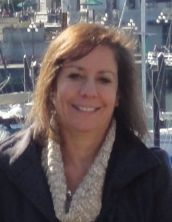
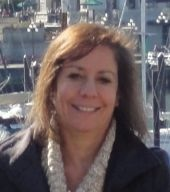
restyle photos and update insurance providers

diff --git a/_includes/header.html b/_includes/header.html
@@ -9,6 +9,7 @@
     <link rel="manifest" href="/site.webmanifest">
 
     <link rel="stylesheet" href="https://cdn.jsdelivr.net/npm/bootswatch@4.6.0/dist/cerulean/bootstrap.css">
+    <link rel="stylesheet" href="{{ '/assets/css/style.css' }}">
     {% if page.summary %}
       <meta name="description" content="{{ page.summary | escape }}">
     {% endif %}

diff --git a/assets/css/style.css b/assets/css/style.css
@@ -1,0 +1,6 @@
+.clinician-photo {
+  width: 100%;
+  aspect-ratio: 1 / 1;
+  object-fit: cover;
+  object-position: center center;
+}

diff --git a/appointments.md b/appointments.md
@@ -68,7 +68,7 @@ We are located at 1228 Asbury Avenue, Ocean City, New Jersey. See our [Contact](
 Call our offices at {{site.phone}} during normal working hours, 9a-5p, Monday through Friday. A receptionist can assist you then. After office-hours, you may leave a message. If you have an emergency, call 911 immediately. <br>
 
 **Do you accept insurance?** <br>
-We accept Medicare and Horizon Blue Cross Blue Shield of NJ and are in the process of adding a few more insurance companies. For all other insurances, we are an "out-of-network" provider. Most insurance plans do provide reimbursement for out-of-network providers. If you would like, we will submit health care claims to your insurance company. Or, we will provide you with a receipt and you can submit the claim. You should be aware that your insurance company will require you to pay your annual deductible before they pay for any non-preventative health care services (whether in-network or out-of-network).<br>
+We accept Medicare, Horizon Blue Cross Blue Shield of NJ, and Aetna. For all other insurances, we are an "out-of-network" provider. Most insurance plans do provide reimbursement for out-of-network providers. If you would like, we will submit health care claims to your insurance company. Or, we will provide you with a receipt and you can submit the claim. You should be aware that your insurance company will require you to pay your annual deductible before they pay for any non-preventative health care services (whether in-network or out-of-network).<br>
 
 **What are your fees?** <br>
 Individual therapy is $200, couple counseling is $250 per session. If you cannot afford this, call the office. We will try to work with you on fees.<br>

diff --git a/clinicians.md b/clinicians.md
@@ -19,7 +19,7 @@ keywords:
 <div class="container-fluid p-0">
   <div class="row">
     <div class="col-sm-2">
-      <img class="img-fluid" src="{{item.image}}" alt="{{item.title}}"><br>
+      <img class="img-fluid rounded shadow-sm clinician-photo" src="{{ item.image }}" alt="{{ item.title }}" loading="lazy"><br>
     </div>
     <div class="col-sm-10">
       <h4 class="text-muted">{{item.title}}</h4>
